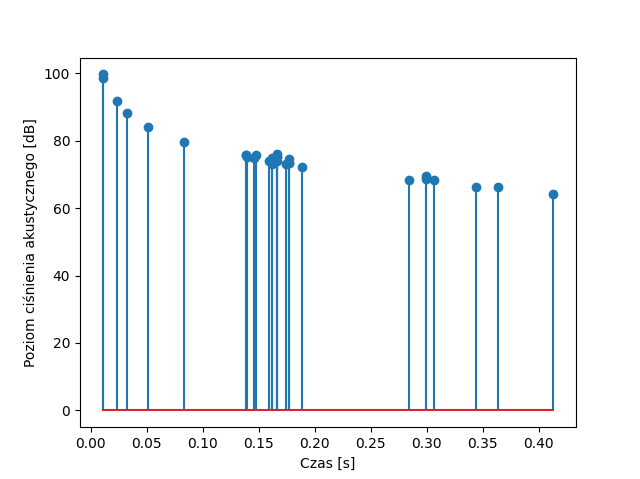
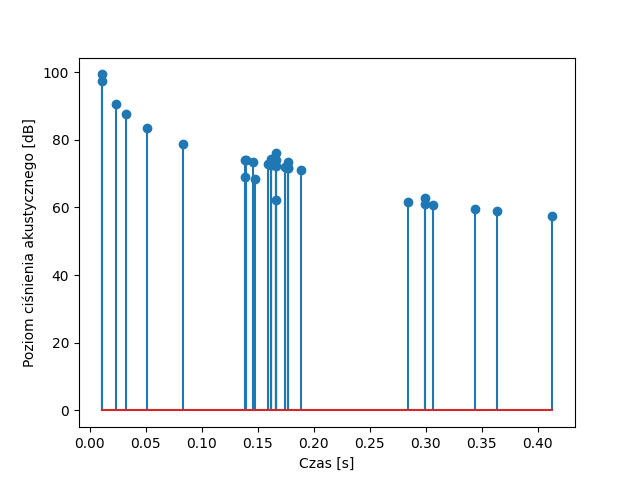
new alpha values

diff --git a/main.py b/main.py
@@ -112,11 +112,12 @@ def get_visible_surfaces(source, obstacles):
     return visible_surfaces
 
 
-def write_to_csv(data, filename, attribute_names, additional_data=None):
+def write_to_csv(data, filename, attribute_names, additional_data):
     import csv
     try:
         with open(filename, 'w', newline='') as f:
             writer = csv.writer(f)
+            writer.writerow(attribute_names + ['x', 'y', 'z', 'dB'])
             for i, item in enumerate(data):
                 attributes = [getattr(item, attrName) if attrName != 'coords'
                               else None
@@ -125,8 +126,7 @@ def write_to_csv(data, filename, attribute_names, additional_data=None):
                 coords = []
                 if 'coords' in attribute_names:
                     coords = [getattr(item.coords, coord) for coord in ['x', 'y', 'z']]
-                if additional_data is not None:
-                    add_data = additional_data[i]
+                add_data = additional_data[i]
                 print(attributes + coords + [add_data])
                 writer.writerow(attributes + coords + [add_data])
     except BaseException as e:
@@ -153,16 +153,16 @@ def image_source_mtd():
             Surface(XY(27.5, 57.5), XY(42.5, 57.5)),
             Surface(XY(27.5, 50), XY(27.5, 57.5)),
             Surface(XY(42.5, 57.5), XY(42.5, 50)),
-        ], 0.2),
+        ], 0.35),
         Obstacle(8, [
             Surface(XY(5, 22.5), XY(12.5, 15)),
             Surface(XY(12.5, 15), XY(22.5, 25)),
             Surface(XY(22.5, 25), XY(15, 37.5)),
             Surface(XY(15, 37.5), XY(5, 22.5)),
-        ], 0.3),
+        ], 0.35),
         Obstacle(7, [
             Surface(XY(67.5, 5), XY(75, 45)),
-        ], 0.1),
+        ], 0.8),
     ]
 
     # list of lists of sources grouped by order
